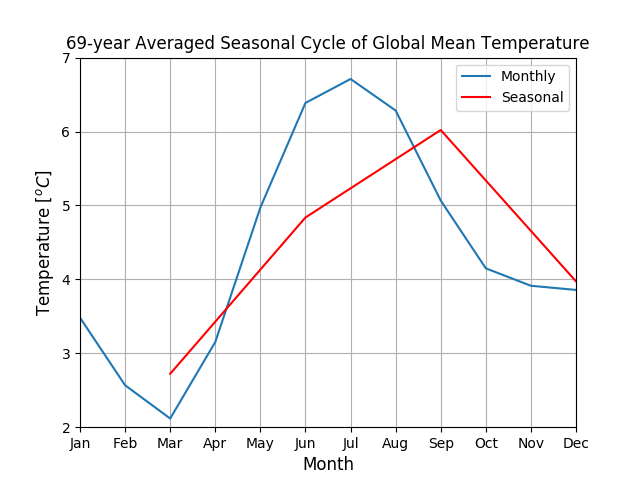
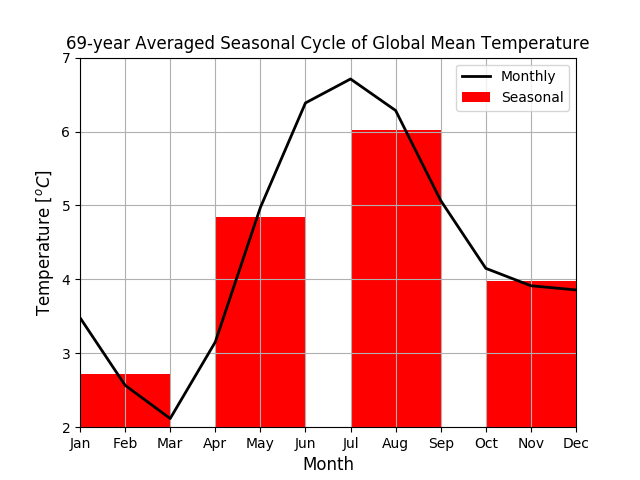
Fixed figure 1.3.

diff --git a/Solutions/Assignment 02 - Homework 2/HW2_Erick_Shepherd.py b/Solutions/Assignment 02 - Homework 2/HW2_Erick_Shepherd.py
@@ -270,15 +270,15 @@ def air_temp():
     
     # Let "three month mean global mean temperatures" be denoted by "TMMGMT".
     TMMGMT  = np.mean(SMGMT.reshape(-1, 3), axis = 1)
-    seasons = [season + 2 for season in months[0::3] - 1]
+    seasons = months[0::3]
 
     y_lower_limit = np.floor(np.min(SMGMT))
     y_upper_limit = np.ceil(np.max(SMGMT))
     
     # Month values have 1 subtracted in order to index from 0.
     plt.figure()
-    plt.plot(months - 1, SMGMT,  label = "Monthly")
-    plt.plot(seasons,    TMMGMT, label = "Seasonal", c = "r")
+    plt.bar(seasons, TMMGMT, label = "Seasonal", width = 2, color = "red")
+    plt.plot(months - 1, SMGMT, label = "Monthly", linewidth = 2, c = "k")
     plt.title("69-year Averaged Seasonal Cycle of Global Mean Temperature")
     plt.xlabel("Month",               fontsize = "large")
     plt.ylabel("Temperature [$^oC$]", fontsize = "large")
